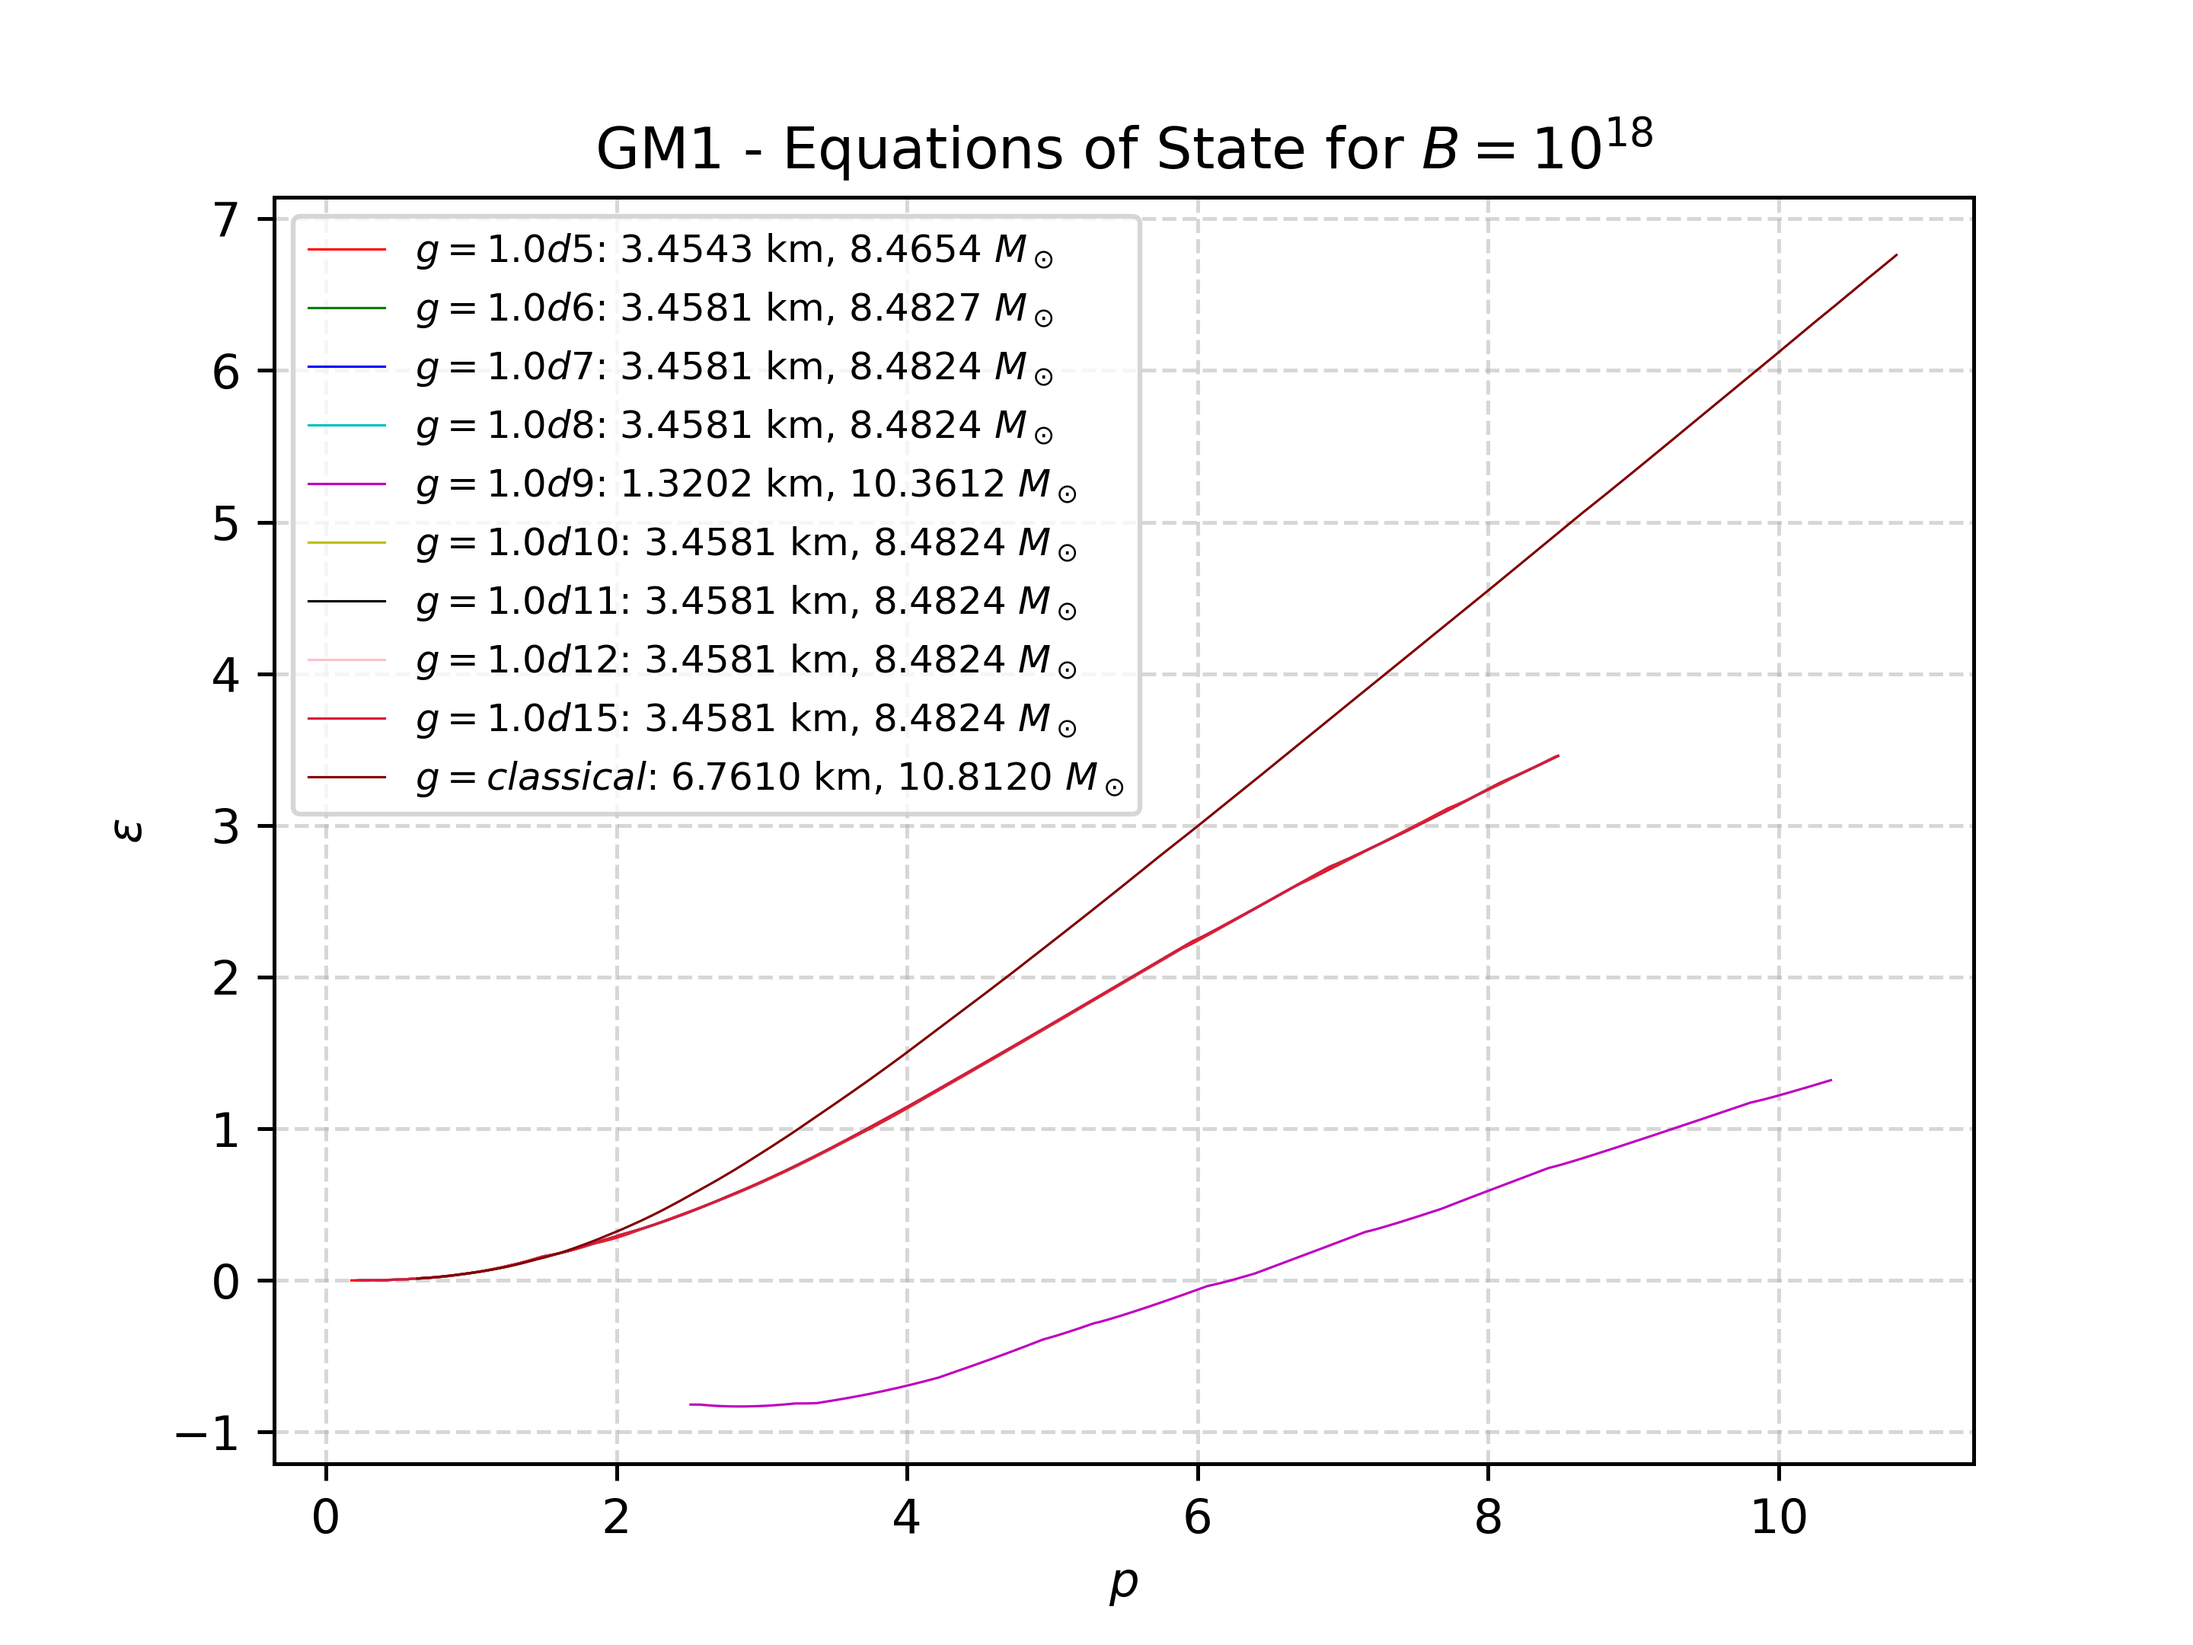
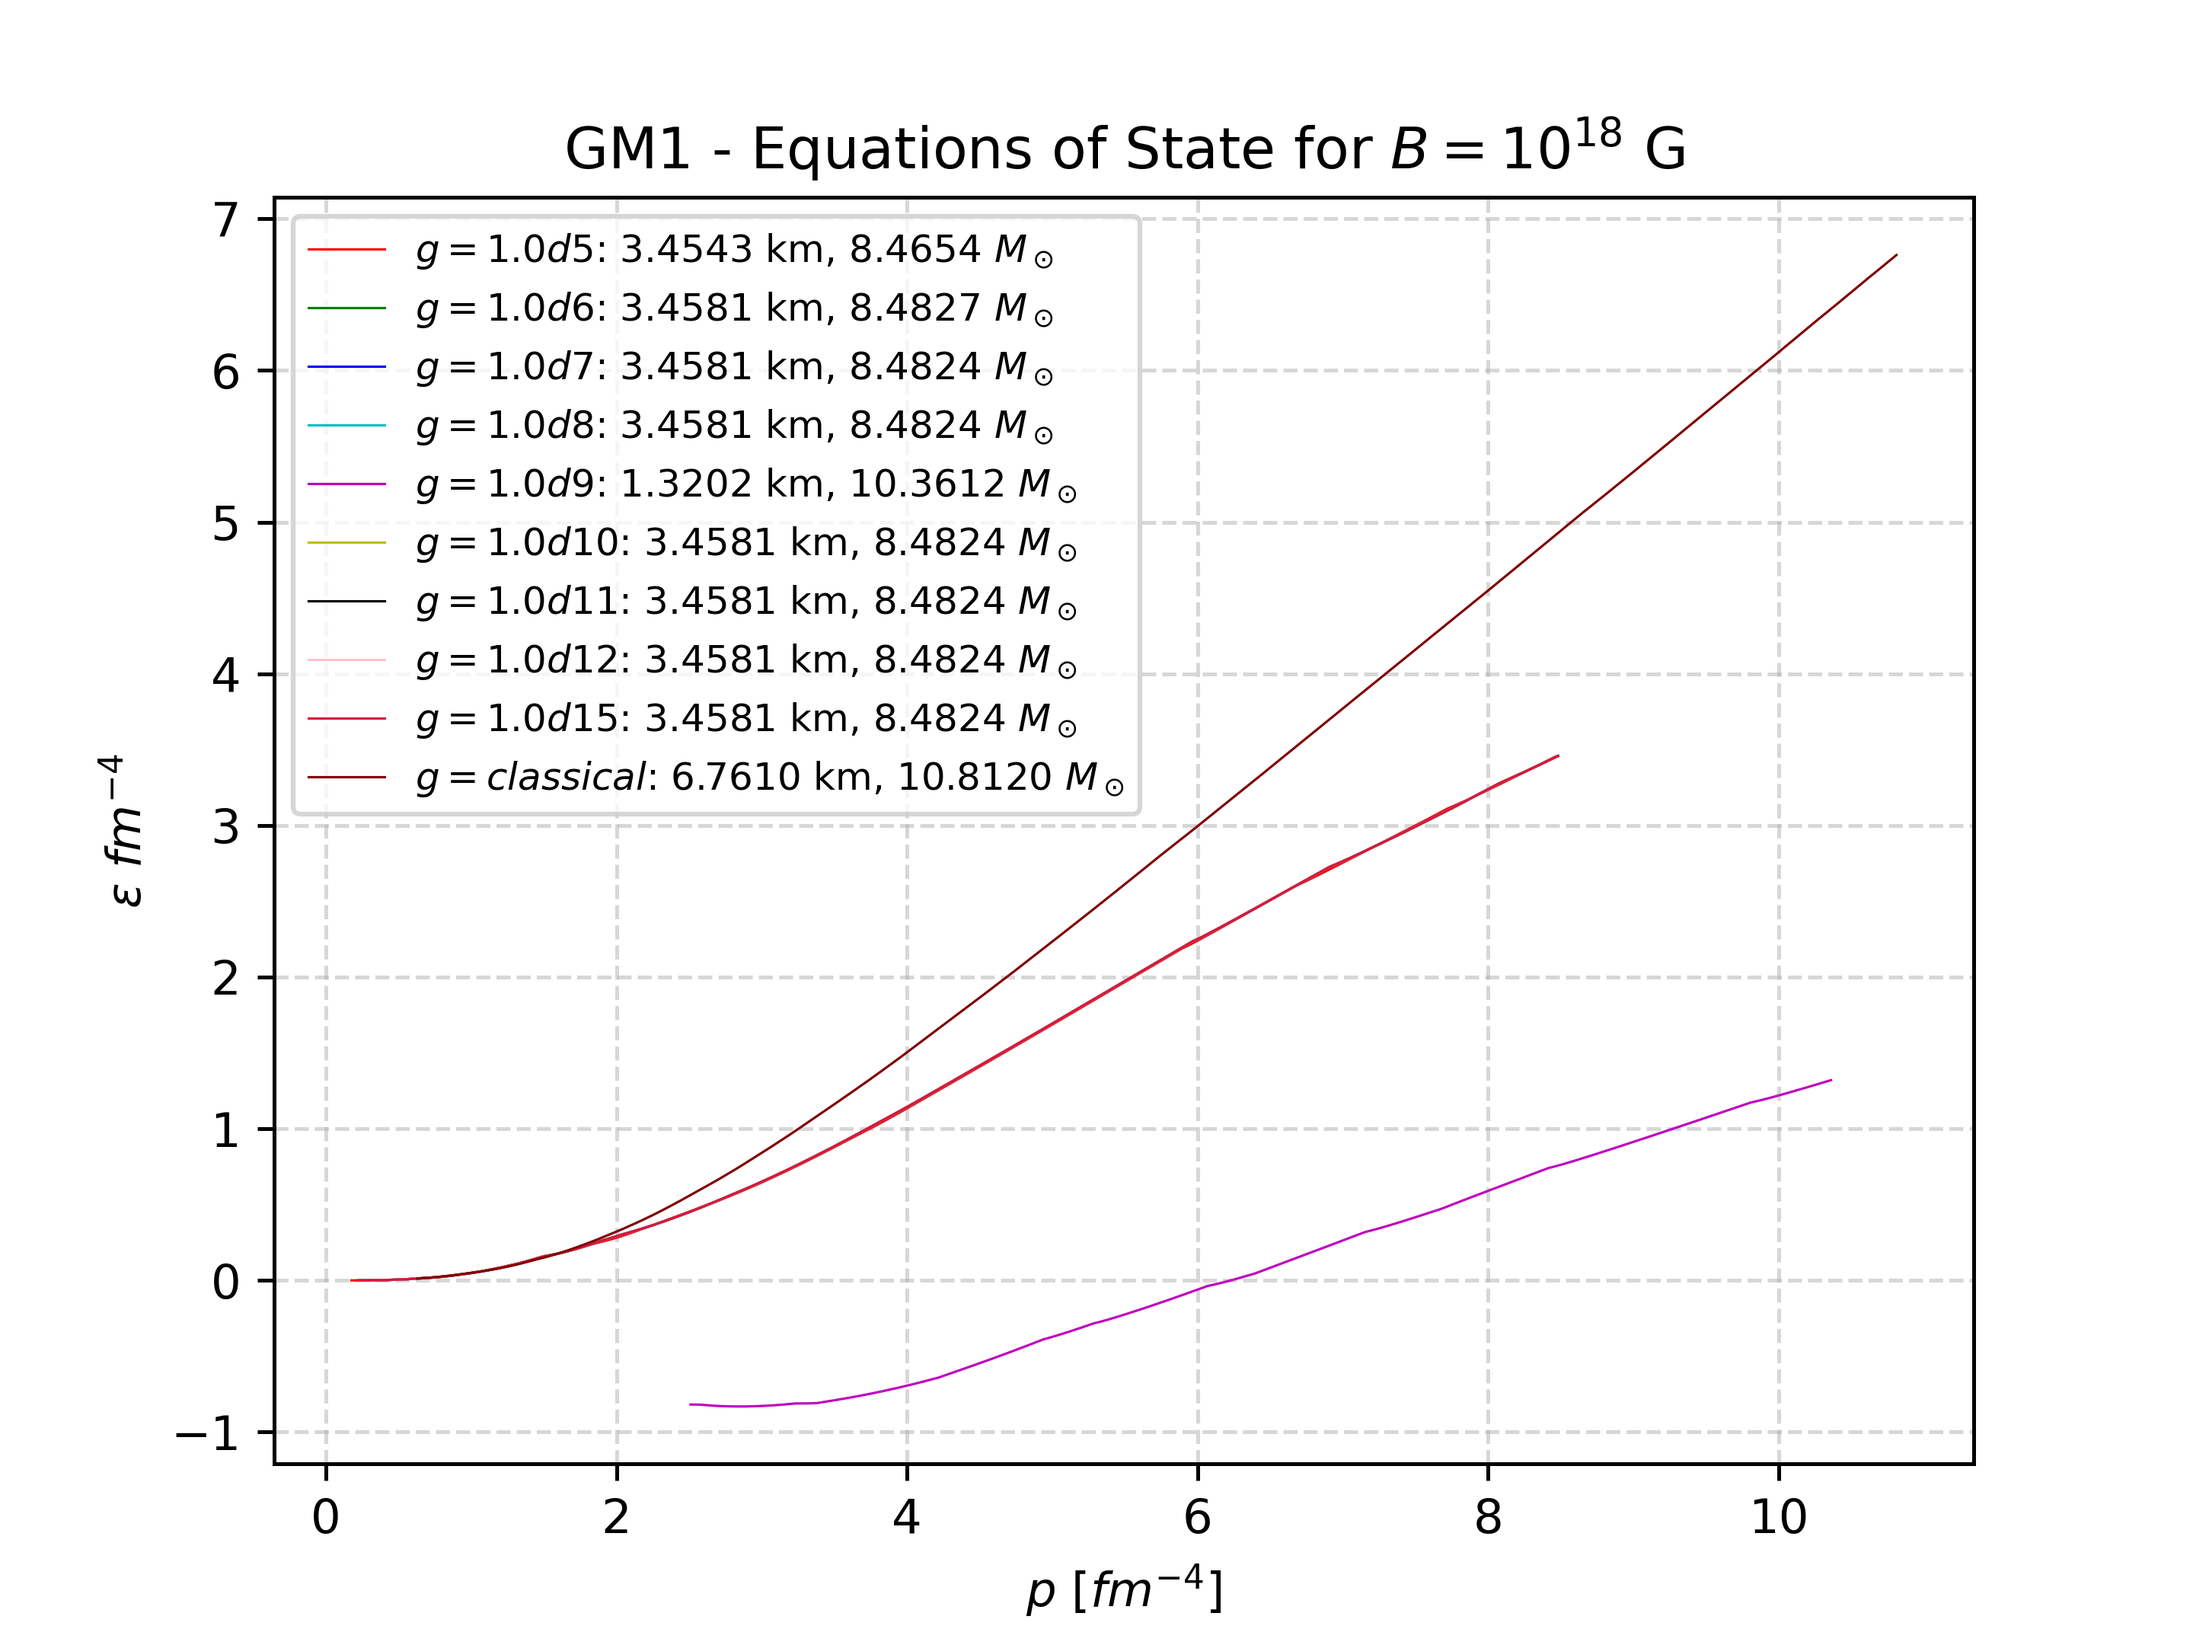
Add files via upload

diff --git a/src/classes.py b/src/classes.py
@@ -30,7 +30,6 @@ class Data:
         self.plottingTOV()
         self.plottingPnB()
         print(datetime.now(), " - Abrindo diretório de saída.")
-        sleep(3)
         open_directory_in_file_explorer(f"{main_directory}/output")
 
     def plottingEOS(self):
@@ -43,9 +42,9 @@ class Data:
             plt.plot(value.e, value.p, label=f"$g={csi}$: {max_r:.4f} km, {max_m:.4f} $M_\odot$", color=color, linewidth=self.linewidth)
         plt.legend(fontsize=self.legend_fontsize)
         plt.grid(linestyle=self.grid_linestyle, alpha=self.grid_alpha)
-        plt.title(f"{self.model} - Equations of State for {self.magnetic_field}")
-        plt.ylabel("$\epsilon$")
-        plt.xlabel("$p$")
+        plt.title(f"{self.model} - Equations of State for {self.magnetic_field} G")
+        plt.ylabel("$\epsilon$ $fm^{-4}$")
+        plt.xlabel("$p$ $[fm^{-4}]$")
         plt.savefig("output/eos.png", dpi=450)
         print(datetime.now(), " - Gráfico das equações de estado foi gerado.")
 
@@ -59,7 +58,7 @@ class Data:
             plt.plot(value.r, value.m, label=f"$g={csi}$: {max_r:.4f} km, {max_m:.4f} $M_\odot$", color=color, linewidth=self.linewidth)
             plt.plot(value.r_max_m, value.max_m, marker=".", color=color, markersize=10)
         plt.legend(fontsize=self.legend_fontsize)
-        plt.title(f"{self.model} - Mass-Radius Diagram for {self.magnetic_field}")
+        plt.title(f"{self.model} - Mass-Radius Diagram for {self.magnetic_field} G")
         plt.xlabel("$Radius$ $(km)$")
         plt.grid(linestyle=self.grid_linestyle, alpha=self.grid_alpha)
         plt.ylabel("$Mass (M_{\odot})$")
@@ -76,8 +75,7 @@ class Data:
             plt.plot(value.nB, value.p, label=f"$g={csi}$: {max_r:.4f} km, {max_m:.4f} $M_\odot$", color=color, linewidth=self.linewidth)
         plt.legend(fontsize=self.legend_fontsize)
         plt.grid(linestyle=self.grid_linestyle, alpha=self.grid_alpha)
-        plt.title(f"{self.model} - Pressure-Baryon Number Density relation for {self.magnetic_field}")
-        plt.title("Pressure x Baryon Number Density")
+        plt.title(f"{self.model} - Pressure-Baryon Number Density relation for {self.magnetic_field} G")
         plt.xlabel("$n_B \;\; [fm^{-3}]$")
         plt.ylabel("$p \;\;[fm^{-4}$")
         plt.savefig("output/pnb.png", dpi=450)
